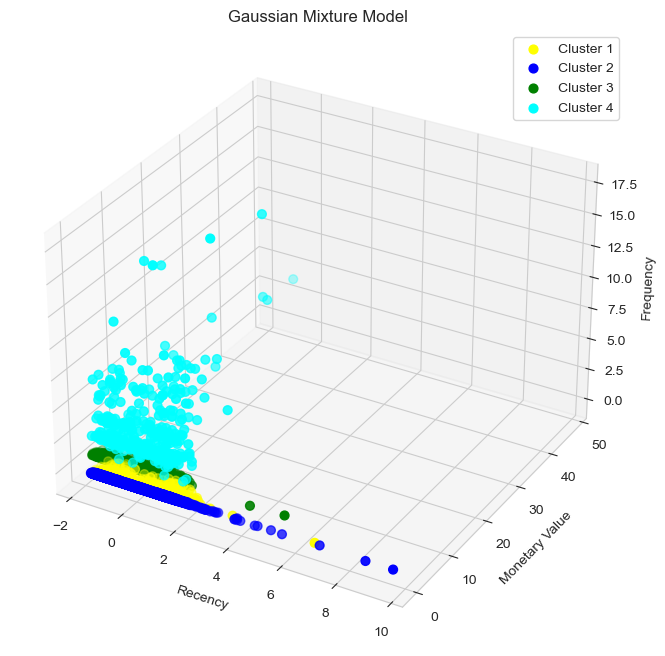
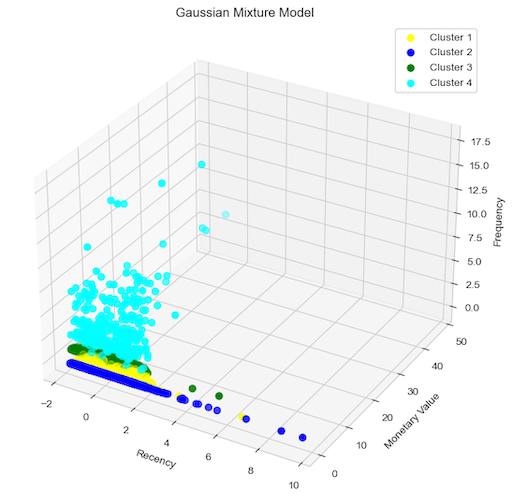
fra

diff --git a/README.md b/README.md
@@ -97,9 +97,13 @@ At this point having all the data we needed, we started implementing the cluster
 
 The first method we implemented was the Kmeans algorithm, for which we needed to compute the elbow method in order to find the right cluster number. As result, we found two numbers, 4 and 5.
 The best way to  decide which one to use was to compare their plots and their scores. Finally, we decided that the best one is the one with 4 clusters since the graph is clearer and the scores are optimized in a better way.
+
 ![elbowmethod.png](images%2Felbowmethod.png)
+
 For the Hierarchical Clustering we computed the number of cluster with the help of the dendrogram. After plotting it, we could see that also in this case the right choice for clusters was 4.
+
 ![dendogram.png](images%2Fdendogram.png)
+
 Finally, for the GMM and the Birch we put 4 clusters for the sake of consistency and to be able to compare it with the previous methods. 
 
 ## Results 
@@ -107,21 +111,29 @@ After implementing all the clustering methods, we carried out an overall analysi
 
 We visualized the clusters through 3D scatter plots, but we also computed empirical results about the characteristics of the clusters obtained.
 Comparing both we can describe the clusters:
-for example the clusters obtained in the birch model and kmeans model are very similar to each others (despite the order of their labels).
+for example the clusters obtained in the **birch model** and **kmeans model** are very similar to each others (despite the order of their labels).
+
+![kmeans3d.png](images%2Fkmeans3d.png)
+
+![BIrch.png](images%2FBIrch.png)
+
 - **The first cluster** represents inactive customers that have made a few purchases typically a long time ago.
 - **The second one** represents active customers that have made purchases many times, also recently, and have spent a fair amount on their purchases.
 - **The third cluster** represents new customers that have purchased very recently (they have in fact the lowest recency value) and have not spent much, because they haven’t made frequent transactions yet.
 - Finally, **the fourth cluster** represents usual/ loyal customers, they shop really frequently and spend a large amount of money on their orders (they have the highest monetary value). 
 
-The hierarchical clusters are pretty similar to the kmeans and birch clusters as well, the slight differences are that:
-in the hierarchical clusters the inactive customers have a lower recency and a lower frequency, 
-the active customers  have a lower monetary value and higher recency and 
+The **hierarchical** clusters are pretty similar to the kmeans and birch clusters as well, the slight differences are that:
+in the hierarchical clusters the inactive customers have a lower recency and a lower frequency,
+the active customers  have a lower monetary value and higher recency and
 the new customers have a higher recency and lower frequency.
 
-The Gaussian method instead returns different clusters,
-as a matter of fact cluster 4 corresponds to the union of the kmeans clusters number 4 and 2, meaning that there is no distinction between active customers and loyal customers. Additionally, three really similar clusters are created, all three contain customers with a high recency, low frequency 
+![hierarchical.png](images%2Fhierarchical.png)
+
+The **Gaussian method** instead returns different clusters,
+as a matter of fact cluster 4 corresponds to the union of the kmeans clusters number 4 and 2, meaning that there is no distinction between active customers and loyal customers. Additionally, three really similar clusters are created, all three contain customers with a high recency, low frequency
 and low monetary value making them not useful for our ultimate goal.
 
+![Gmm.png](images%2FGmm.png)
 The inappropriateness of this method can be proven by the scores that quantify the performance of the algorithms.
 
 We decided to calculate 3 of these scores:
